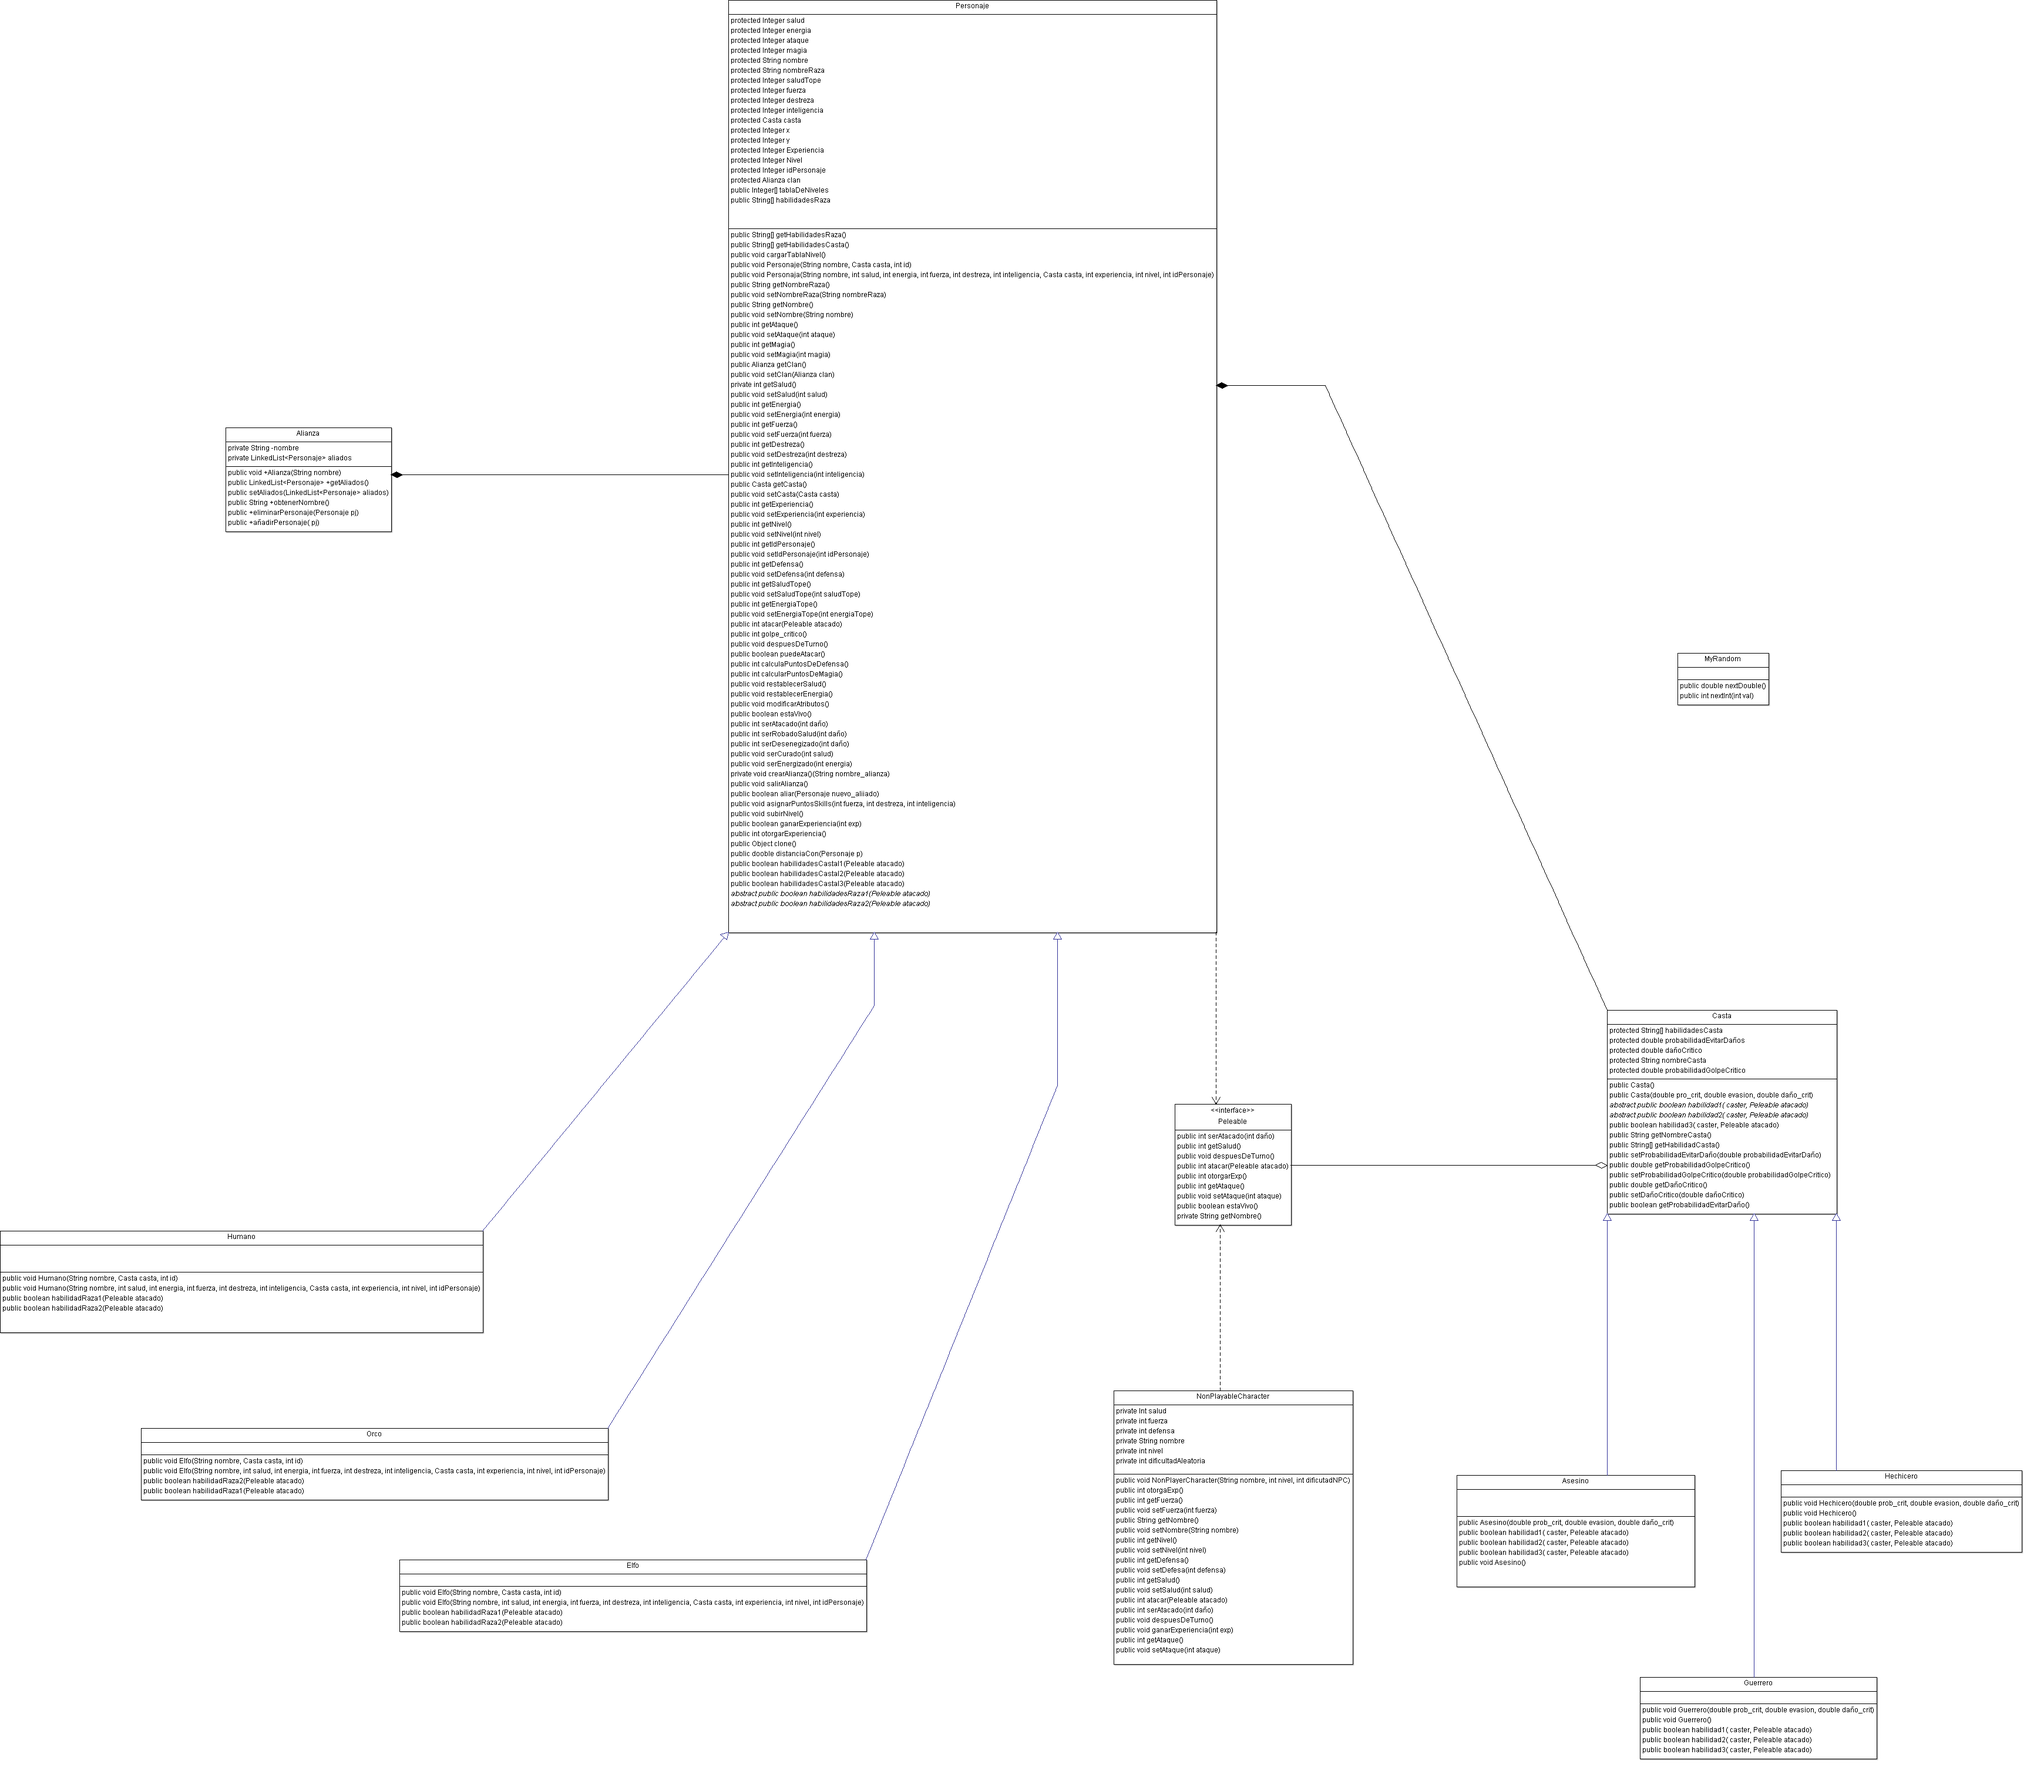
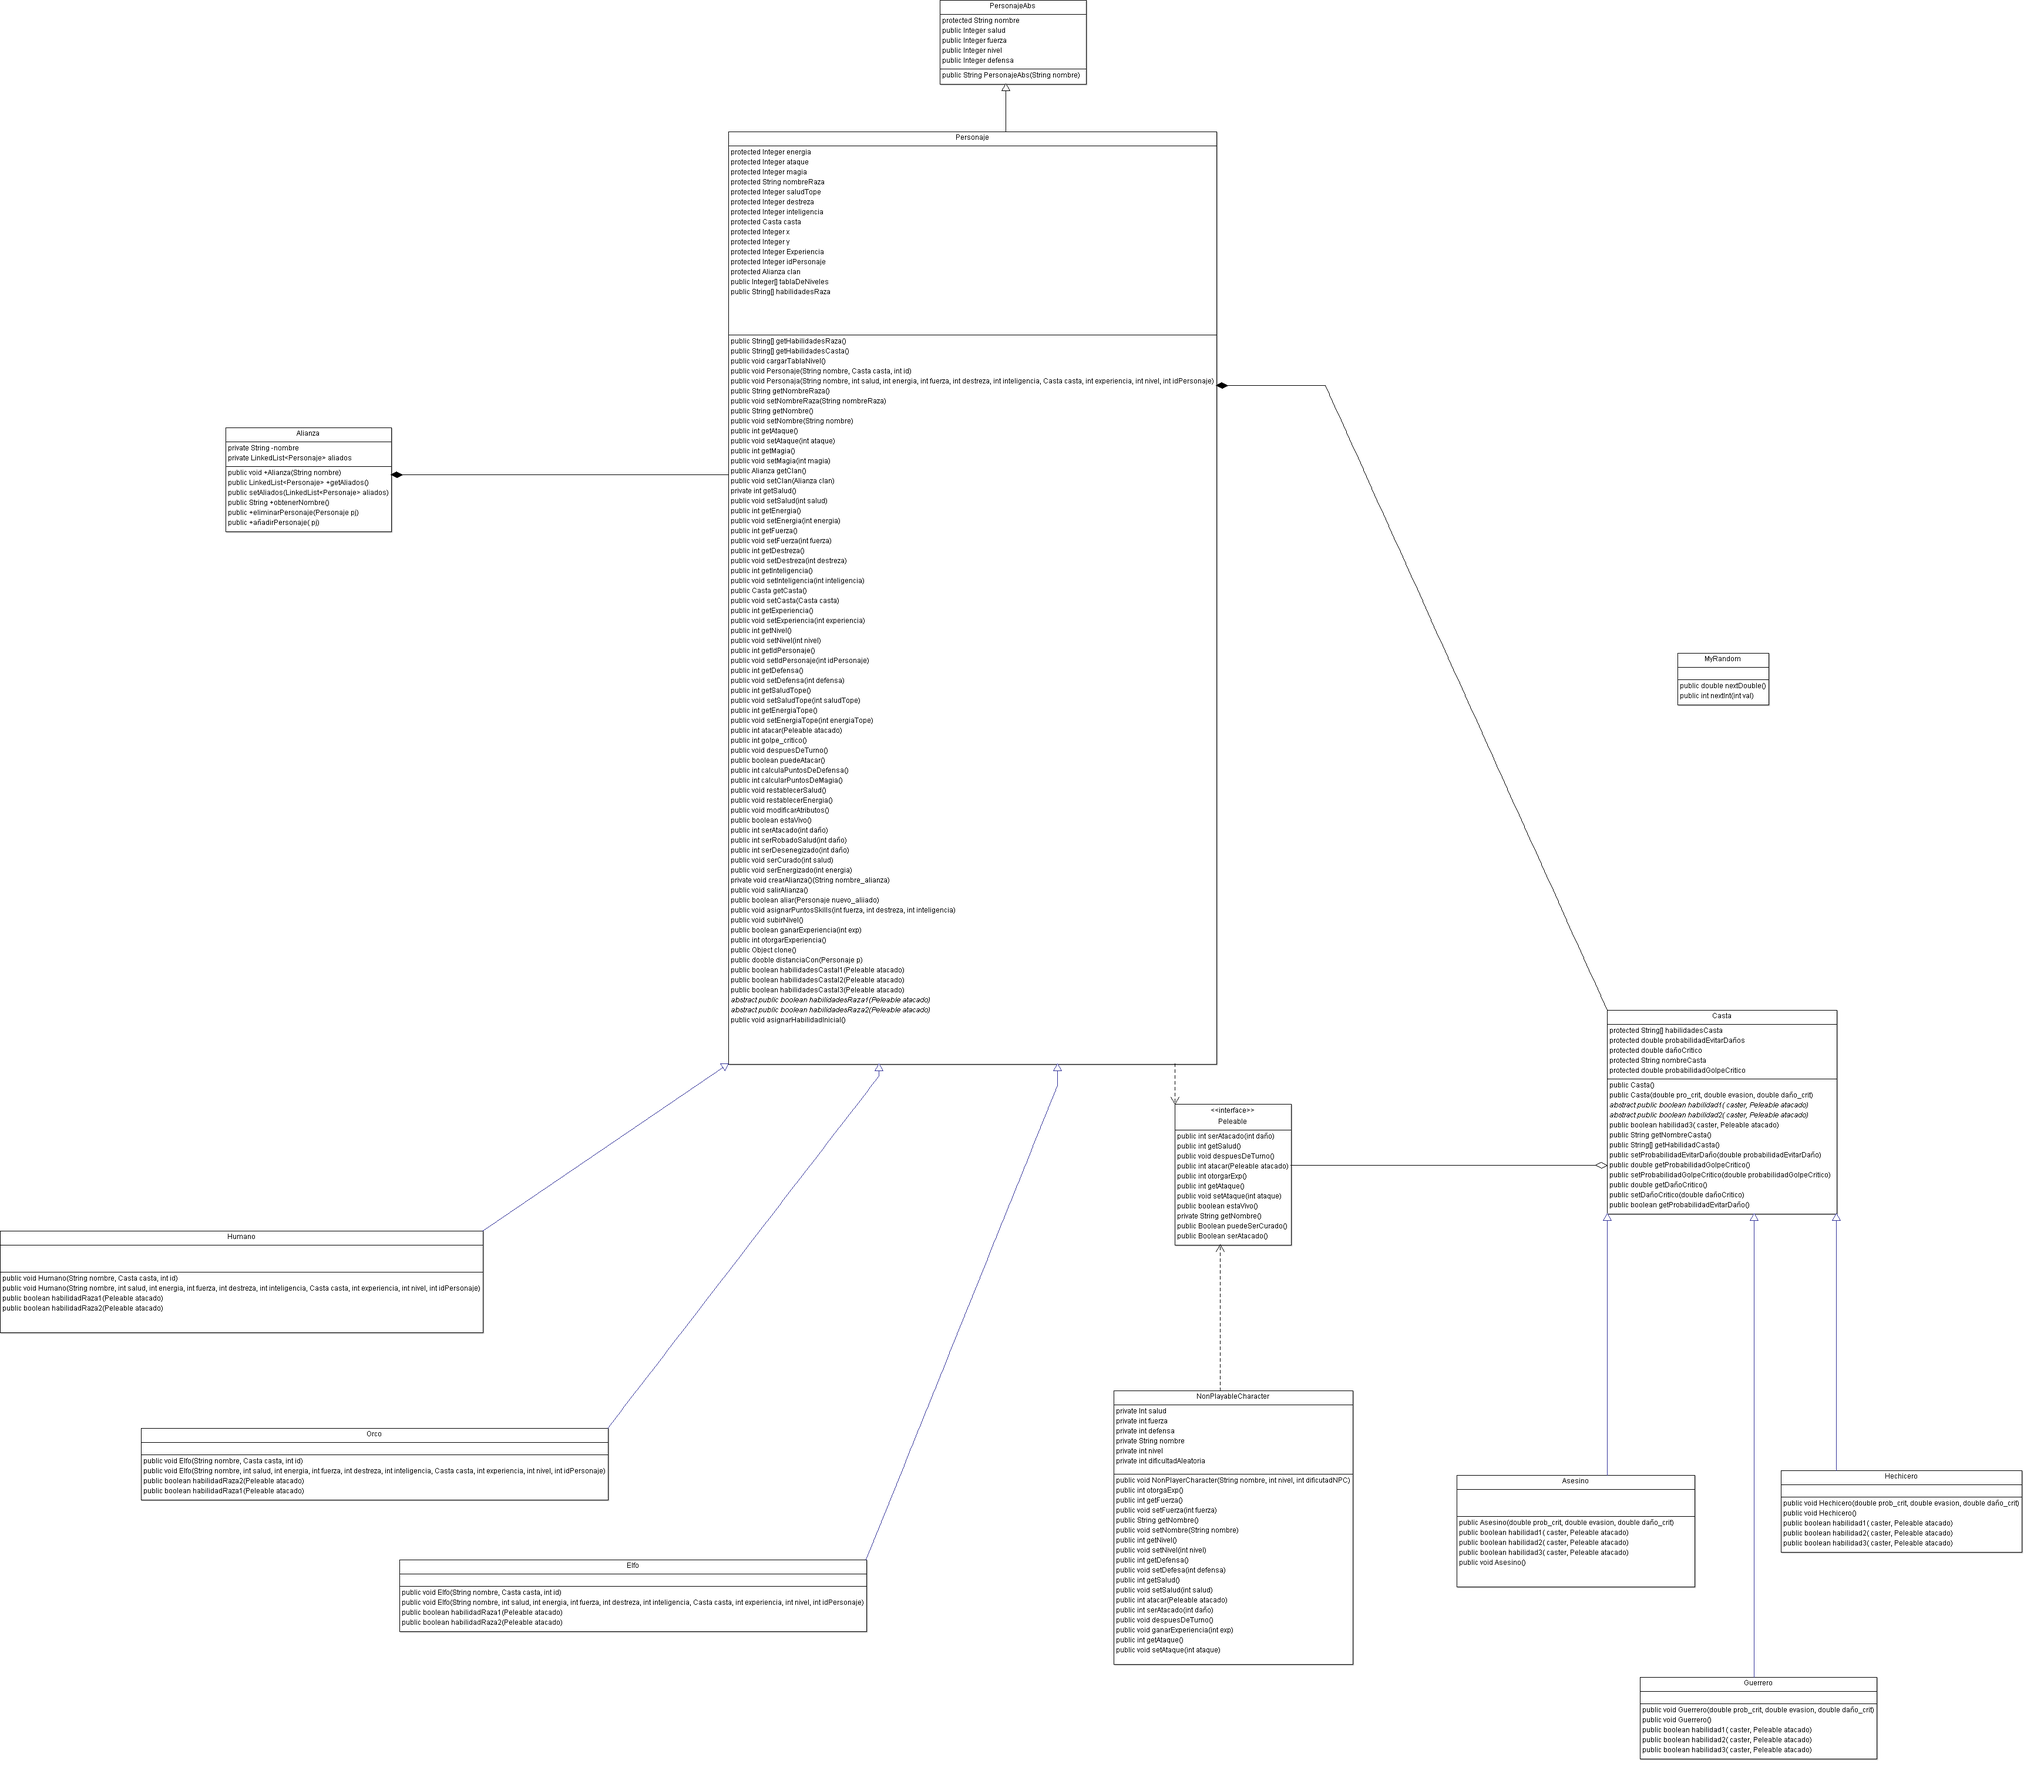
Correción segunda entrega

Changed region(s): [[0.3414, 0.0, 0.4345, 0.5579], [0.5897, 0.6818, 0.6207, 0.7128], [0.4655, 0.0, 0.4966, 0.031]]

diff --git a/src/main/java/dominio/Personaje.java b/src/main/java/dominio/Personaje.java
@@ -70,13 +70,12 @@ public abstract class Personaje extends PersonAbs implements Peleable, Serializa
 		fuerza = 10;
 		inteligencia = 10;
 		destreza = 10;
-	
-		if (casta.nombreCasta.equals("Guerrero"))
-			fuerza += 5;
-		if (casta.nombreCasta.equals("Hechicero"))
-			inteligencia += 5;
-		if (casta.nombreCasta.equals("Asesino"))
-			destreza += 5;
+
+		fuerza += casta.getFueraza();
+		
+		inteligencia += casta.getInteligencia();
+		
+		destreza += casta.getDestreza();
 
 		x = 0;
 		y = 0;
@@ -675,7 +674,7 @@ public abstract class Personaje extends PersonAbs implements Peleable, Serializa
 	
 	protected void asignarHabilidadInicial(String nombre){
 		switch(nombreRaza){
-			case "elfo":
+			case "Elfo":
 		energiaTope += 10;
 			salud = saludTope;
 			energia = energiaTope;
@@ -683,7 +682,7 @@ public abstract class Personaje extends PersonAbs implements Peleable, Serializa
 			habilidadesRaza[0] = "Golpe Level";
 			habilidadesRaza[1] = "Ataque Bosque";
 			break;
-			case "orco":
+			case "Orco":
 			saludTope += 10;
 			salud = saludTope;
 			energia = energiaTope;
@@ -691,7 +690,7 @@ public abstract class Personaje extends PersonAbs implements Peleable, Serializa
 			habilidadesRaza[0] = "Golpe Defensa";
 			habilidadesRaza[1] = "Mordisco de Vida";
 			break;
-			case "humano":
+			case "Humano":
 			energiaTope += 5;
 			saludTope += 5;		
 			salud = saludTope;

diff --git a/src/main/java/dominio/Hechicero.java b/src/main/java/dominio/Hechicero.java
@@ -38,7 +38,7 @@ public class Hechicero extends Casta {
 	public boolean habilidad2(Personaje caster, Peleable aliado) {
 		if (caster.getEnergia() > 10) {
 			caster.setEnergia(caster.getEnergia() - 10);
-			if (aliado.estaVivo()) {
+			if (aliado.puedeSerCurado()) {
 				((Personaje) aliado).serCurado(caster.calcularPuntosDeMagia());
 				return true;
 			}
@@ -54,7 +54,7 @@ public class Hechicero extends Casta {
 	public boolean habilidad3(Personaje caster, Peleable atacado) {
 		if (caster.getEnergia() > 10) {
 			caster.setEnergia(caster.getEnergia() - 10);
-			if (atacado.estaVivo()) {
+			if (atacado.serAtacado()) {
 				int energia_robada = ((Personaje) atacado).serDesernegizado(caster.calcularPuntosDeMagia());
 				int salud_robada = ((Personaje) atacado).serRobadoSalud(caster.calcularPuntosDeMagia() / 2);
 				caster.serEnergizado(energia_robada);
@@ -66,5 +66,26 @@ public class Hechicero extends Casta {
 		return false;
 	}
 
-
+	
+	/**
+	 * Devuelve la fuerza dependiendo de la raza
+	 */
+	@Override
+	public int getFueraza() {
+		return 0;
+	}
+	/**
+	 * Devuelve la inteligencia dependiendo de la raza
+	 */
+	@Override
+	public int getInteligencia() {
+		return 5;
+	}
+	/**
+	 * devuelve la destreza dependiendo de la raza
+	 */
+	@Override
+	public int getDestreza() {
+		return 0;
+	}
 }

diff --git a/src/main/java/dominio/Casta.java b/src/main/java/dominio/Casta.java
@@ -27,21 +27,21 @@ public abstract class Casta implements Serializable {
 		this.dañoCritico = daño_crit;
 	}
 	/**
-     * Funcion abstarcta que serán definidas en cada especialización de Casta.
+     * Funcion abstracta que serán definidas en cada especialización de Casta.
      * @param caster caster.
      * @param atacado caster.
      * @return true o false.
      */
 	public abstract boolean habilidad1(Personaje caster, Peleable atacado);
 	/**
-     * Funcion abstarcta que serán definidas en cada especialización de Casta.
+     * Funcion abstracta que serán definidas en cada especialización de Casta.
      * @param caster caster.
      * @param atacado caster.
      * @return true o false.
      */
 	public abstract boolean habilidad2(Personaje caster, Peleable atacado);
 	/**
-     * Funcion abstarcta que serán definidas en cada especialización de Casta.
+     * Funcion abstracta que serán definidas en cada especialización de Casta.
      * @param caster caster.
      * @param atacado caster.
      * @return true o false.
@@ -104,5 +104,10 @@ public abstract class Casta implements Serializable {
 		this.dañoCritico = dañoCritico;
 	}
 
+	public abstract int getFueraza();
+
+	public abstract int getDestreza();
+
+	public abstract int getInteligencia();
 
 }

diff --git a/src/test/java/tests_dominio/TestAliarCombatir.java b/src/test/java/tests_dominio/TestAliarCombatir.java
@@ -9,7 +9,7 @@ public class TestAliarCombatir {
 	public void testCrearAlianza(){
 		Humano h = new Humano("Nicolas",new Guerrero(),1);
 		Humano h2 = new Humano("Lautaro",new Guerrero(),1);
-		
+	
 		Assert.assertNull(h.getClan());
 		Assert.assertNull(h2.getClan());
 		h.aliar(h2);
@@ -21,7 +21,7 @@ public class TestAliarCombatir {
 	public void testDañar(){
 		Humano h = new Humano("Nicolas",new Guerrero(),1);
 		Humano h2 = new Humano("Lautaro",new Asesino(),1);
-		
+		System.out.println(h2.getSalud());
 		Assert.assertTrue(h2.getSalud()==105);
 		if(	h.atacar(h2)!=0)
 			Assert.assertTrue(h2.getSalud()<105);

diff --git a/src/main/java/dominio/Asesino.java b/src/main/java/dominio/Asesino.java
@@ -54,6 +54,28 @@ public class Asesino extends Casta {
 	public boolean habilidad3(Personaje caster, Peleable atacado) {
 		return false;
 	}
+	
+	/**
+	 * Devuelve la fuerza dependiendo de la raza
+	 */
+	@Override
+	public int getFueraza() {
+		return 0;
+	}
+	/**
+	 * Devuelve la inteligencia dependiendo de la raza
+	 */
+	@Override
+	public int getInteligencia() {
+		return 0;
+	}
+	/**
+	 * devuelve la Destreza dependiendo de la raza
+	 */
+	@Override
+	public int getDestreza() {
+		return 5;
+	}
 
 
 }

diff --git a/src/test/java/tests_dominio/TestHumano.java b/src/test/java/tests_dominio/TestHumano.java
@@ -35,4 +35,16 @@ public class TestHumano {
 			Assert.assertTrue(e.getSalud() == 100);
 		}
 	}
+	
+	@Test
+	public void puedeSerCurado() {
+		Humano h = new Humano("Nico", 100, 100, 55, 20, 30, new Hechicero(0.2, 0.3, 1.5), 0, 1, 1);	
+		Assert.assertTrue(h.puedeSerCurado());
+	}
+	
+	@Test
+	public void puedeSerAtacado() {
+		Humano h = new Humano("Nico", 100, 100, 55, 20, 30, new Hechicero(0.2, 0.3, 1.5), 0, 1, 1);	
+		Assert.assertTrue(h.serAtacado());
+	}
 }

diff --git a/src/test/java/tests_dominio/TestElfo.java b/src/test/java/tests_dominio/TestElfo.java
@@ -32,4 +32,16 @@ public class TestElfo {
 		else
 			Assert.assertTrue(h.getSalud() == 100);
 	}
+	
+	@Test
+	public void puedeSerCurado() {
+		Elfo e = new Elfo("Nico", 100, 100, 25, 20, 30, new Asesino(0.2, 0.3, 1.5), 0, 3, 1);
+		Assert.assertTrue(e.puedeSerCurado());
+	}
+	
+	@Test
+	public void puedeSerAtacado() {
+		Elfo e = new Elfo("Nico", 100, 100, 25, 20, 30, new Asesino(0.2, 0.3, 1.5), 0, 3, 1);
+		Assert.assertTrue(e.serAtacado());
+	}
 }

diff --git a/src/main/java/dominio/NonPlayableCharacter.java b/src/main/java/dominio/NonPlayableCharacter.java
@@ -182,4 +182,19 @@ public class NonPlayableCharacter extends PersonAbs implements Peleable {
 	public void setAtaque(int ataque) {
 		this.fuerza = ataque;
 	}
+	
+	/**
+	 * Metodo que devuelve si el personaje puede ser atacado o no
+	 */
+	@Override
+	public boolean serAtacado() {
+		return false;
+	}
+	/**
+	 * Metodo que devuelve si el personaje puede ser curado o no
+	 */
+	@Override
+	public boolean puedeSerCurado() {
+		return false;
+	}
 }

diff --git a/src/main/java/dominio/Guerrero.java b/src/main/java/dominio/Guerrero.java
@@ -69,4 +69,25 @@ public class Guerrero extends Casta {
 		return false;
 	}
 
+	/**
+	 * Devuelve la fuerza dependiendo de la raza
+	 */
+	@Override
+	public int getFueraza() {
+		return 5;
+	}
+	/**
+	 * Devuelve la inteligencia dependiendo de la raza
+	 */
+	@Override
+	public int getInteligencia() {
+		return 0;
+	}
+	/**
+	 * Devuelve la destreza dependiendo de la raza
+	 */
+	@Override
+	public int getDestreza() {
+		return 0;
+	}
 }

diff --git a/src/test/java/tests_dominio/TestOrco.java b/src/test/java/tests_dominio/TestOrco.java
@@ -38,4 +38,16 @@ public class TestOrco {
 			Assert.assertTrue(h.getSalud() == 100);
 		}
 	}
+	
+	@Test
+	public void puedeSerCurado() {
+		Orco o = new Orco("Hernan", new Guerrero(), 1);
+		Assert.assertTrue(o.puedeSerCurado());
+	}
+	
+	@Test
+	public void puedeSerAtacado() {
+		Orco o = new Orco("Hernan", new Guerrero(), 1);
+		Assert.assertTrue(o.serAtacado());
+	}
 }

diff --git a/src/main/java/dominio/Orco.java b/src/main/java/dominio/Orco.java
@@ -58,4 +58,19 @@ public class Orco extends Personaje {
 		}
 		return false;
 	}
+	
+	/**
+	 * Metodo que devuelve si el personaje puede ser atacado o no
+	 */
+	@Override
+	public boolean serAtacado() {
+		return true;
+	}
+	/**
+	 * Metodo que devuelve si el personaje puede ser curado o no
+	 */
+	@Override
+	public boolean puedeSerCurado() {
+		return true;
+	}
 }

diff --git a/src/main/java/dominio/Elfo.java b/src/main/java/dominio/Elfo.java
@@ -45,4 +45,18 @@ public class Elfo extends Personaje {
 		}
 		return false;
 	}
+	/**
+	 * Metodo que devuelve si el personaje puede ser atacado o no
+	 */
+	@Override
+	public boolean serAtacado() {
+		return true;
+	}
+	/**
+	 * Metodo que devuelve si el personaje puede ser curado o no
+	 */
+	@Override
+	public boolean puedeSerCurado() {
+		return true;
+	}
 }
